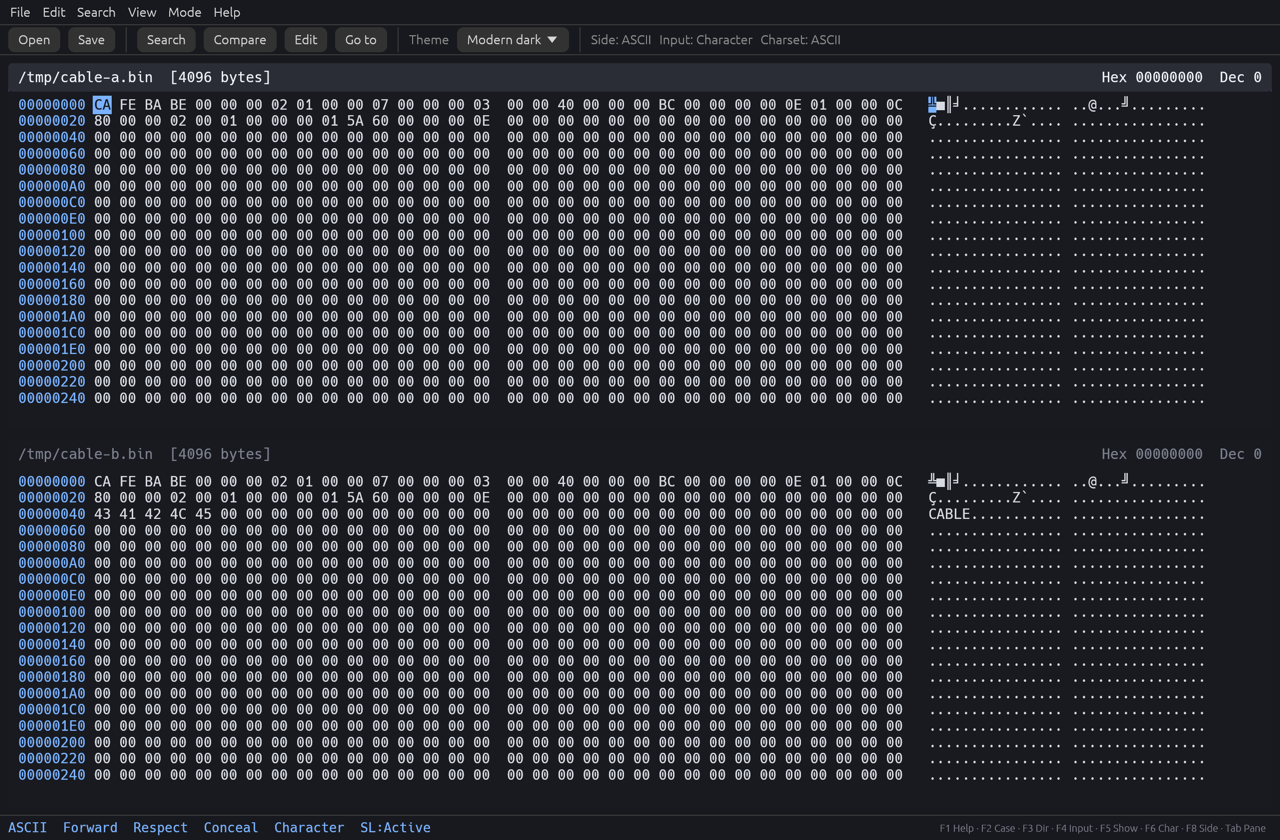
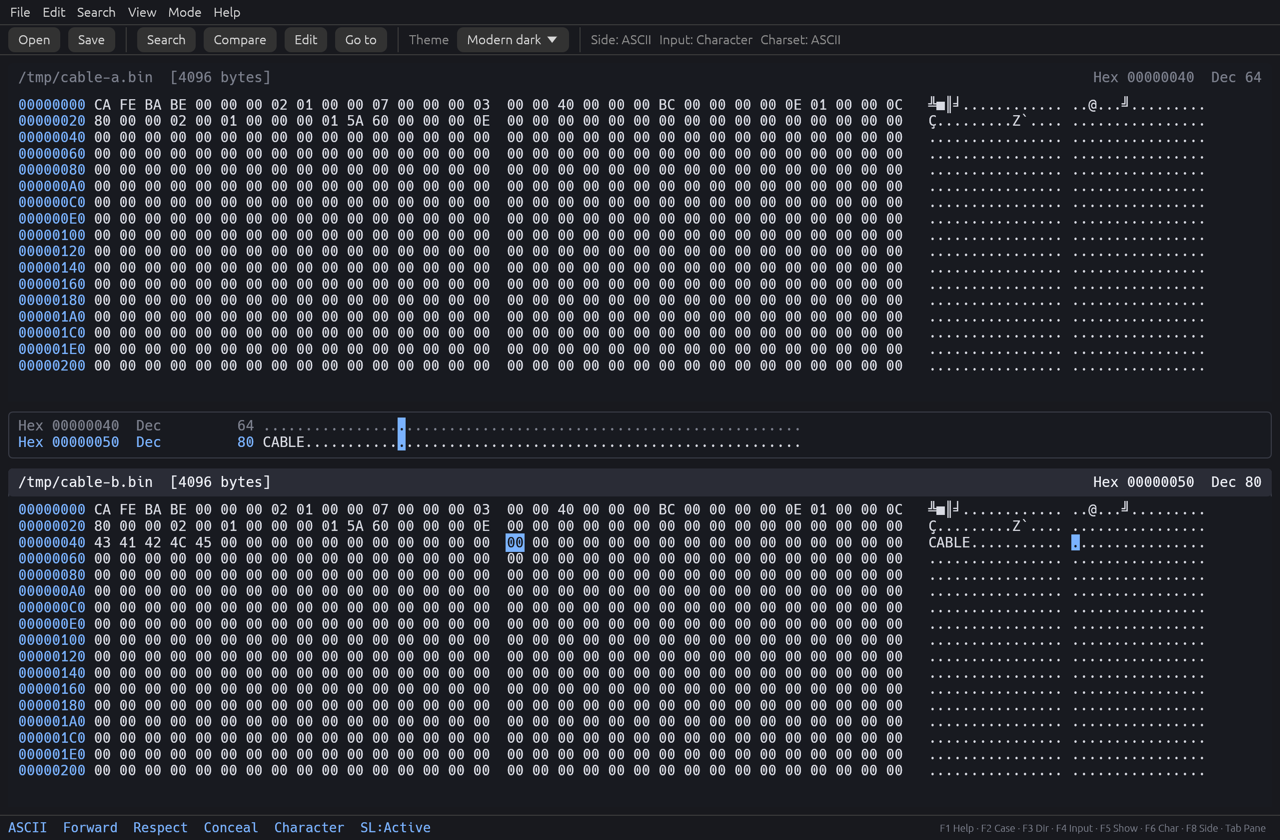
Add the preview band and keep navigation keys off the chrome
The band between the two windows shows the original 64-byte preview of
each file, starting sixteen bytes before that window's cursor, so the
two cursor bytes line up in the same column.  The active window's line
is brighter and its cursor byte is highlighted.

Tab now switches windows without handing keyboard focus to a menu or
toolbar widget, and the arrow keys no longer move that widget's
selection: the handled keys are consumed and egui's focus move for the
frame is cleared.  Open menus and dialogs keep the keyboard while they
are up.

Adds preview alignment tests and a Tab/arrow regression test.

diff --git a/src/gui/mod.rs b/src/gui/mod.rs
@@ -29,6 +29,10 @@ const THEMES: [Theme; 5] = [
     Theme::Mono,
 ];
 const PANE_GAP: f32 = 10.0;
+/// The original shows a 64-byte preview of each file in the band between the
+/// two windows, starting sixteen bytes before that window's cursor.
+const PREVIEW_LEN: usize = 64;
+const PREVIEW_BEFORE: usize = 16;
 
 /// Cell geometry shared by rendering and hit testing.
 #[derive(Clone, Copy)]
@@ -371,7 +375,8 @@ impl GuiApp {
     // Keyboard
 
     fn handle_keys(&mut self, ctx: &egui::Context) {
-        if self.dialog.is_some() {
+        // Dialogs and open menus own the keyboard while they are up.
+        if self.dialog.is_some() || ctx.any_popup_open() {
             return;
         }
         let events = ctx.input(|i| i.events.clone());
@@ -412,8 +417,11 @@ impl GuiApp {
 
             // While editing, every key belongs to the byte editor.
             if self.core.edit.is_some() {
-                if let Some(key) = map_key(key, modifiers) {
-                    let _ = self.core.handle_key(key);
+                if let Some(mapped) = map_key(key, modifiers) {
+                    // Keep egui widgets from also acting on navigation keys.
+                    consume(ctx, modifiers, key);
+                    release_focus(ctx);
+                    let _ = self.core.handle_key(mapped);
                 }
                 continue;
             }
@@ -441,9 +449,17 @@ impl GuiApp {
                 | Key::PageDown
                 | Key::Home
                 | Key::End => {
-                    if let Some(key) = map_key(key, modifiers) {
-                        let _ = self.core.handle_key(key);
+                    if let Some(mapped) = map_key(key, modifiers) {
+                        // Tab would otherwise move keyboard focus to the menu or
+                        // toolbar, and the arrows would then change that widget.
+                        consume(ctx, modifiers, key);
+                        release_focus(ctx);
+                        let _ = self.core.handle_key(mapped);
                     }
+                }
+                Key::Enter | Key::Space => {
+                    consume(ctx, modifiers, key);
+                    release_focus(ctx);
                 }
                 Key::A => {
                     consume(ctx, modifiers, key);
@@ -720,7 +736,10 @@ impl GuiApp {
             .fonts_mut(|f| (f.glyph_width(&font, '0'), f.row_height(&font)));
 
         let header_h = row_h + 12.0;
-        let pane_h = (avail.height() - PANE_GAP) / 2.0;
+        // Two preview lines with a little padding, matching the six-row band of
+        // the original screen in spirit while keeping modern proportions.
+        let band_h = 2.0 * row_h + 14.0;
+        let pane_h = (avail.height() - band_h - 2.0 * PANE_GAP) / 2.0;
         let rows = (((pane_h - header_h - 2.0 * PANE_PAD) / row_h).floor() as usize).max(1);
         let bpr = self.bytes_per_row(avail.width(), char_w);
 
@@ -733,14 +752,106 @@ impl GuiApp {
             row_h,
             header_h,
         };
-        for index in 0..2 {
-            let y = avail.min.y + index as f32 * (pane_h + PANE_GAP);
-            let rect = Rect::from_min_size(pos2(avail.min.x, y), vec2(avail.width(), pane_h));
-            action = action.or(self.pane(ui, index, rect, grid, &font));
-        }
+        let top = Rect::from_min_size(avail.min, vec2(avail.width(), pane_h));
+        let band_y = avail.min.y + pane_h + PANE_GAP;
+        let band = Rect::from_min_size(pos2(avail.min.x, band_y), vec2(avail.width(), band_h));
+        let bottom = Rect::from_min_size(
+            pos2(avail.min.x, band_y + band_h + PANE_GAP),
+            vec2(avail.width(), pane_h),
+        );
+        action = action.or(self.pane(ui, 0, top, grid, &font));
+        self.preview_band(ui, band, grid, &font);
+        action = action.or(self.pane(ui, 1, bottom, grid, &font));
 
         ui.allocate_space(avail.size());
         action
+    }
+
+    /// Draw the preview band between the two windows: one line per file, each
+    /// showing bytes `cursor-16 ..= cursor+47` as characters.  The cursor byte
+    /// is the seventeenth cell on both lines, so the two files line up.
+    fn preview_band(&mut self, ui: &mut egui::Ui, rect: Rect, grid: Grid, font: &FontId) {
+        let theme = self.theme();
+        let painter = ui.painter().with_clip_rect(rect);
+        painter.rect_filled(rect, 4.0, tui_color(theme.bg()));
+        painter.rect_stroke(
+            rect,
+            4.0,
+            Stroke::new(1.0, tui_color(theme.border())),
+            StrokeKind::Inside,
+        );
+
+        let label_chars = 28.0;
+        let preview_x = rect.left() + PANE_PAD + (label_chars + 1.0) * grid.char_w;
+        for index in 0..2 {
+            let y = rect.top() + 6.0 + index as f32 * grid.row_h;
+            let active = self.core.active == index;
+            let cursor = self.core.panes[index].cursor;
+            let label_color = if active {
+                tui_color(theme.accent())
+            } else {
+                tui_color(theme.dim())
+            };
+            painter.text(
+                pos2(rect.left() + PANE_PAD, y),
+                Align2::LEFT_TOP,
+                format!("Hex {cursor:08X}  Dec {cursor:>10}"),
+                font.clone(),
+                label_color,
+            );
+
+            let cells = self.preview_cells(index);
+            for (i, ch) in cells.iter().enumerate() {
+                let x = preview_x + i as f32 * grid.char_w;
+                if x + grid.char_w > rect.right() - PANE_PAD {
+                    break;
+                }
+                let at_cursor = i == PREVIEW_BEFORE;
+                let (fg, bg) = if at_cursor {
+                    (
+                        tui_color(theme.cursor_fg()),
+                        Some(tui_color(theme.cursor_bg())),
+                    )
+                } else if active {
+                    (tui_color(theme.fg()), None)
+                } else {
+                    (tui_color(theme.dim()), None)
+                };
+                if let Some(bg) = bg {
+                    painter.rect_filled(
+                        Rect::from_min_size(pos2(x, y), vec2(grid.char_w, grid.row_h)),
+                        0.0,
+                        bg,
+                    );
+                }
+                painter.text(pos2(x, y), Align2::LEFT_TOP, *ch, font.clone(), fg);
+            }
+        }
+    }
+
+    /// The 64 characters of one file's preview line; blanks outside the file.
+    fn preview_cells(&mut self, index: usize) -> Vec<char> {
+        let cursor = self.core.panes[index].cursor;
+        let start = cursor as i64 - PREVIEW_BEFORE as i64;
+        let ebcdic = self.core.options.ebcdic;
+        let conceal = self.core.options.conceal;
+        let mut cells = Vec::with_capacity(PREVIEW_LEN);
+        for i in 0..PREVIEW_LEN {
+            let offset = start + i as i64;
+            let byte = if offset < 0 {
+                None
+            } else {
+                self.core.panes[index]
+                    .file
+                    .as_mut()
+                    .and_then(|file| file.read_byte(offset as u64).ok().flatten())
+            };
+            cells.push(match byte {
+                Some(byte) => codec::display_byte(byte, ebcdic, conceal),
+                None => ' ',
+            });
+        }
+        cells
     }
 
     fn bytes_per_row(&self, width: f32, char_w: f32) -> usize {
@@ -1446,6 +1557,18 @@ fn consume(ctx: &egui::Context, modifiers: egui::Modifiers, key: Key) {
     ctx.input_mut(|i| i.consume_key(modifiers, key));
 }
 
+/// Drop keyboard focus and the focus move egui derived from this frame's raw
+/// key events.  Without this, Tab focuses the first menu or toolbar widget and
+/// the arrow keys then change it instead of moving the file cursor.
+fn release_focus(ctx: &egui::Context) {
+    ctx.memory_mut(|memory| {
+        memory.move_focus(egui::FocusDirection::None);
+        if let Some(id) = memory.focused() {
+            memory.surrender_focus(id);
+        }
+    });
+}
+
 fn tui_color(color: TuiColor) -> Color32 {
     match color {
         TuiColor::Reset => Color32::from_rgb(220, 220, 220),
@@ -1692,6 +1815,93 @@ mod tests {
         }
         assert!(app.core.panes[0].file.is_some());
         assert!(app.core.panes[1].file.is_some());
+    }
+
+    fn key_event(key: Key) -> egui::Event {
+        egui::Event::Key {
+            key,
+            physical_key: None,
+            pressed: true,
+            repeat: false,
+            modifiers: egui::Modifiers::default(),
+        }
+    }
+
+    fn run_frame(app: &mut GuiApp, ctx: &egui::Context, events: Vec<egui::Event>) {
+        let input = egui::RawInput {
+            events,
+            ..Default::default()
+        };
+        let mut output = ctx.run_ui(input, |ui| app.draw(ui));
+        output.textures_delta.clear();
+    }
+
+    #[test]
+    fn tab_and_arrows_do_not_reach_the_chrome() {
+        let (mut app, ctx) = sample_app();
+        let theme = app.core.options.theme;
+
+        run_frame(&mut app, &ctx, vec![key_event(Key::Tab)]);
+        assert_eq!(app.core.active, 1, "Tab should switch to the second window");
+        assert!(
+            ctx.memory(|m| m.focused().is_none()),
+            "Tab left keyboard focus on a menu or toolbar widget"
+        );
+
+        let before = app.core.panes[1].cursor;
+        run_frame(&mut app, &ctx, vec![key_event(Key::ArrowDown)]);
+        assert!(
+            app.core.panes[1].cursor > before,
+            "the arrow key should move the second window's cursor"
+        );
+        assert_eq!(
+            app.core.options.theme, theme,
+            "the arrow key must not change a toolbar selection"
+        );
+    }
+
+    #[test]
+    fn preview_centres_the_cursor_byte() {
+        let (mut app, _ctx) = sample_app();
+        app.core.panes[0].cursor = 40;
+        let conceal = app.core.options.conceal;
+        let cells = app.preview_cells(0);
+        assert_eq!(cells.len(), PREVIEW_LEN);
+        assert_eq!(cells[0], codec::display_byte(24, false, conceal));
+        assert_eq!(
+            cells[PREVIEW_BEFORE],
+            codec::display_byte(40, false, conceal)
+        );
+        assert_eq!(
+            cells[PREVIEW_LEN - 1],
+            codec::display_byte(87, false, conceal)
+        );
+    }
+
+    #[test]
+    fn preview_pads_before_the_start_of_the_file() {
+        let (mut app, _ctx) = sample_app();
+        let conceal = app.core.options.conceal;
+        let cells = app.preview_cells(0);
+        assert!(cells[..PREVIEW_BEFORE].iter().all(|c| *c == ' '));
+        assert_eq!(
+            cells[PREVIEW_BEFORE],
+            codec::display_byte(0, false, conceal)
+        );
+    }
+
+    #[test]
+    fn preview_ends_with_blanks_past_the_file() {
+        let (mut app, _ctx) = sample_app();
+        let conceal = app.core.options.conceal;
+        let last = app.core.panes[0].len() - 1;
+        app.core.panes[0].cursor = last;
+        let cells = app.preview_cells(0);
+        assert_eq!(
+            cells[PREVIEW_BEFORE],
+            codec::display_byte(255, false, conceal)
+        );
+        assert_eq!(cells[PREVIEW_BEFORE + 1], ' ');
     }
 
     #[test]

diff --git a/README.md b/README.md
@@ -45,6 +45,8 @@ disassembly, and adds:
 
 - a menu bar, toolbar and status bar; the original colour, amber and mono
   palettes plus modern dark and light ones (`--dark`, `--light`)
+- the original's middle preview band: 64 bytes around each window's cursor,
+  with the two files aligned on the cursor byte
 - mouse and trackpad navigation of the hex and character columns, drag and drop
   of files onto either window, and native open dialogs
 - search, go-to/add/subtract, options and help dialogs, and direct saving
